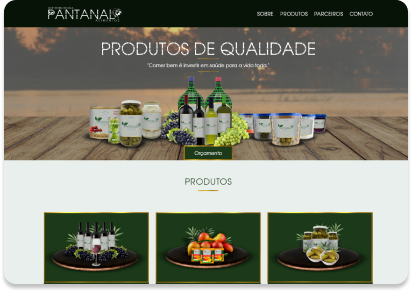
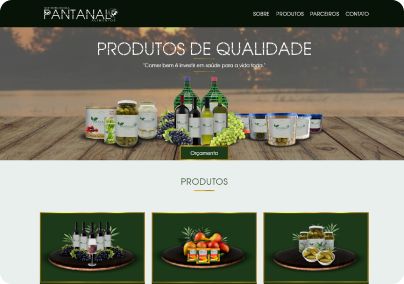
IMPLEMENT WORKS GALLERY WITH CSS FLEXBOX.

diff --git a/index.html b/index.html
@@ -52,7 +52,7 @@
         <ul class="skills-flex">
 
           <li>
-            <img src="/img/html5.svg" alt="html 5 icon">
+            <a href=""></a><img src="/img/html5.svg" alt="html 5 icon">
           </li>
 
           <li>
@@ -71,25 +71,38 @@
     </div>
   </section>
 
-  <section class="container">
-    <div class="projects">
-      <h2 class="title">Projects <img src="/img/projects-gray.svg" alt="projects icon"> </h2>
-      <p>Some of my projects include:</p>
+  <section class="container projects">
+    <h2 class="title">Projects <img src="/img/projects-gray.svg" alt="projects icon"> </h2>
+    <p>Some of my projects are:</p>
 
-    </div>
     <div class="container works">
-      <a href="http://pantanal.rodolfocampos.com/"><img src="/img/pantanal.jpg" alt="Distribuidora Pantanal Alimentos"></a>
-      <div class="works-p">
-        <p>Made a institutional website with HTML 5, CSS and JS only.</p>
-        <a href="http://pantanal.rodolfocampos.com/">
-          <img src="/img/internet.svg" alt="internet icon">
-          <p>Visit site</p>
-        </a>
+      <div class="works-item">
+        <a href="http://pantanal.rodolfocampos.com/" target="_blank"><img src="/img/project01.png" alt="Distribuidora Pantanal Alimentos"></a>
+        <div class="works-txt">
+          <p>This is a website totally designed and developed by me, included the images manipulation.</p>
+        </div>
       </div>
+
+      <div class="works-item">
+        <a href="coming-soon.html" target="_blank"><img src="img/project-coming.svg" alt="coming soon icon"></a>
+        <div class="works-txt">
+          <p>The next projects will be showed here soon.</p>
+        </div>
+      </div>
+
+      <div class="works-item">
+        <a href="coming-soon.html" target="_blank"><img src="img/project-coming.svg" alt="coming soon icon"></a>
+        <div class="works-txt">
+          <p>The next projects will be showed here soon.</p>
+        </div>
+      </div>
+
+
     </div>
 
   </section>
 
+  <!-- contato -->
   <section class="contact container">
     <h2 class="title"> Contact me</h2>
 

diff --git a/css/style.css b/css/style.css
@@ -67,7 +67,7 @@ padding-right: 10px;
 }
 .intro-button{
   padding-top: 50px;
-    display: flex;
+  display: flex;
   justify-content: space-between;
   
 }
@@ -135,29 +135,35 @@ padding-right: 10px;
   padding-bottom: 50px;
 }
 .works{
-  height: 500px;
-  background: url(/img/project-back.svg) no-repeat;
+  display: flex;
+  justify-content: space-between;
 }
-.works img{
-  padding-left: 10px;
-  padding-top: 10px;
-}
-.works-p{
-  text-align: center;
-  margin: 0 35px 0 10px;
-  padding-top: 30px;
-  padding-left: 455px;
-  padding-right: 455px;
-  font-size: 30px;
-  background-color: #E5E5E5;
-  padding-bottom: 10px;
+.works-item img{ 
+  width: 400px;
+  height: 280px;
+  filter: drop-shadow(0px 4px 4px rgba(0, 0, 0, 0.7));
+ }
+.works-item img:hover{ 
+  scale: 105%;
+  border-radius: 10px;
+  box-shadow: 0px 10px 10px rgba(0, 0, 0, 0.14), 0px 8px 5px rgba(0, 0, 0, 0.12), 0px 6px 12px rgba(0, 0, 0, 0.1);
+ }
+
+.works-txt{
+  box-sizing: border-box;
+  margin-top: 10px;
+  width: 400px;
+  height: 150px;
+  background-color: #3D563F ;
+  border: 2px solid #578965;
+  border-radius: 10px;
 
 }
-.works-p a{
-font-size: 20px;
-}
-.works-p p:nth-child(2) {
-  color: #29803C ;
+.works-txt p{
+  font-size: 20px;
+  color: #fff;
+  padding: 40px 30px;
+
 }
 
 /* Contact */
@@ -201,6 +207,14 @@ font-size: 20px;
   border-radius: 4px;
   color: #FFFDFD;
   padding: 15px 69px 15px 20px;
+ }
+ .btn{
+  box-shadow: 0px 2px 2px rgba(0, 0, 0, 0.14), 0px 3px 1px rgba(0, 0, 0, 0.12), 0px 1px 5px rgba(0, 0, 0, 0.2);
+ }
+ .btn:hover{
+  background: #3D563F;
+  scale: 105%;
+  box-shadow: 0px 10px 10px rgba(0, 0, 0, 0.14), 0px 8px 5px rgba(0, 0, 0, 0.12), 0px 6px 12px rgba(0, 0, 0, 0.2);
  }
  .button-icon {
   position: absolute;

diff --git a/coming-soon.html b/coming-soon.html
@@ -1,0 +1,1 @@
+<!DOCTYPE html>
